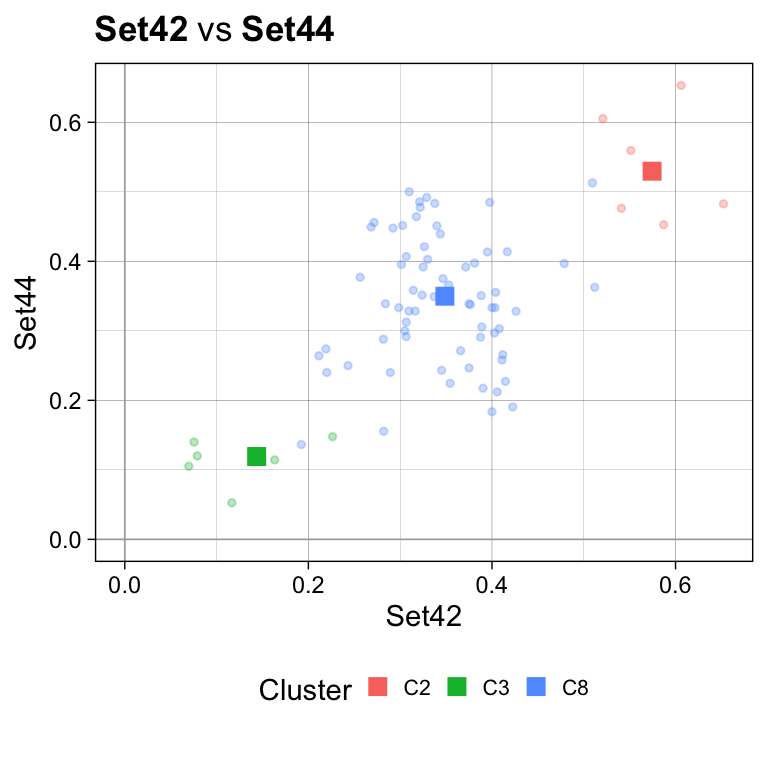
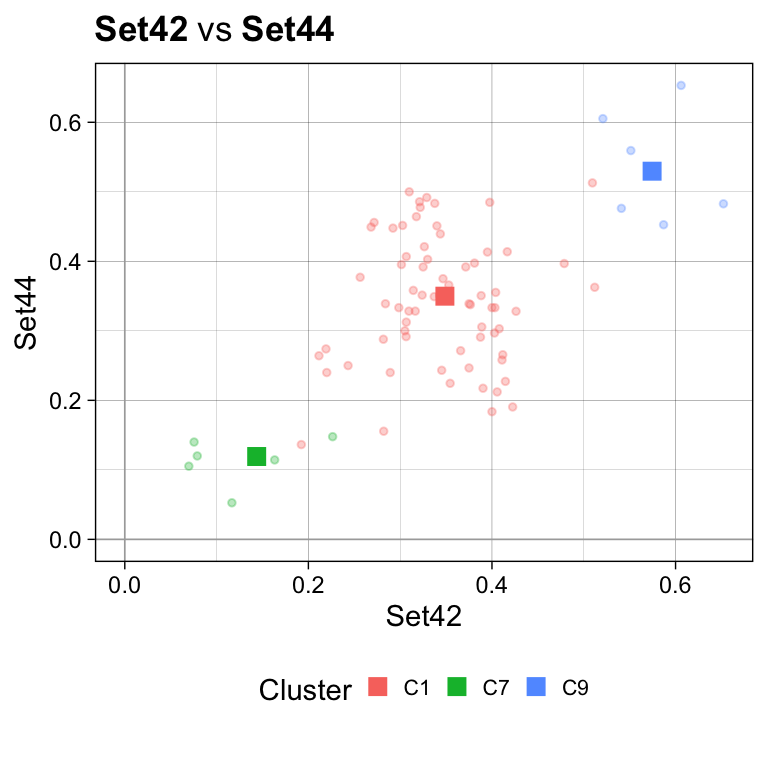
Subset VAF plot

diff --git a/docs/articles/Analysis.html b/docs/articles/Analysis.html
@@ -206,8 +206,8 @@
 <a class="sourceLine" id="cb2-44" data-line-number="44"><span class="co">#&gt; # A tibble: 2 x 2</span></a>
 <a class="sourceLine" id="cb2-45" data-line-number="45"><span class="co">#&gt;   time                operation                  </span></a>
 <a class="sourceLine" id="cb2-46" data-line-number="46"><span class="co">#&gt;   &lt;dttm&gt;              &lt;chr&gt;                      </span></a>
-<a class="sourceLine" id="cb2-47" data-line-number="47"><span class="co">#&gt; 1 2019-09-22 17:12:37 Initialization             </span></a>
-<a class="sourceLine" id="cb2-48" data-line-number="48"><span class="co">#&gt; 2 2019-09-22 17:12:40 Fit MOBSTER to Set42, Set44</span></a></code></pre></div>
+<a class="sourceLine" id="cb2-47" data-line-number="47"><span class="co">#&gt; 1 2019-09-23 00:43:19 Initialization             </span></a>
+<a class="sourceLine" id="cb2-48" data-line-number="48"><span class="co">#&gt; 2 2019-09-23 00:43:23 Fit MOBSTER to Set42, Set44</span></a></code></pre></div>
 <p>Consequently, the S3 plotting function can now be asked to plot 2D points coloured by MOBSTER cluster (the samples are analyzed independently therefore there are two labels per point).</p>
 <div class="sourceCode" id="cb3"><pre class="sourceCode r"><code class="sourceCode r"><a class="sourceLine" id="cb3-1" data-line-number="1"><span class="kw"><a href="https://www.rdocumentation.org/packages/graphics/topics/plot">plot</a></span>(x, <span class="dt">clusters =</span> <span class="st">'MOBSTER'</span>)</a>
 <a class="sourceLine" id="cb3-2" data-line-number="2"><span class="co">#&gt; Printing data augmented with MOBSTER clusters</span></a>
@@ -299,11 +299,11 @@
 <a class="sourceLine" id="cb6-60" data-line-number="60"><span class="co">#&gt; </span></a>
 <a class="sourceLine" id="cb6-61" data-line-number="61"><span class="co">#&gt;     Points N = 81 </span></a>
 <a class="sourceLine" id="cb6-62" data-line-number="62"><span class="co">#&gt; Dimensions W = 2 </span></a>
-<a class="sourceLine" id="cb6-63" data-line-number="63"><span class="co">#&gt;        Fit CONVERGED (34 steps; eps. 1e-10) with Variational </span></a>
+<a class="sourceLine" id="cb6-63" data-line-number="63"><span class="co">#&gt;        Fit CONVERGED (35 steps; eps. 1e-10) with Variational </span></a>
 <a class="sourceLine" id="cb6-64" data-line-number="64"><span class="co">#&gt; </span></a>
 <a class="sourceLine" id="cb6-65" data-line-number="65"><span class="co">#&gt; Binomial parameters (2 digits rounded) </span></a>
 <a class="sourceLine" id="cb6-66" data-line-number="66"><span class="co">#&gt;  # A tibble: 2 x 10</span></a>
-<a class="sourceLine" id="cb6-67" data-line-number="67"><span class="co">#&gt;      C8    C3    C2    C1    C4    C5    C6    C7    C9   C10</span></a>
+<a class="sourceLine" id="cb6-67" data-line-number="67"><span class="co">#&gt;      C1    C7    C9    C2    C3    C4    C5    C6    C8   C10</span></a>
 <a class="sourceLine" id="cb6-68" data-line-number="68"><span class="co">#&gt;   &lt;dbl&gt; &lt;dbl&gt; &lt;dbl&gt; &lt;dbl&gt; &lt;dbl&gt; &lt;dbl&gt; &lt;dbl&gt; &lt;dbl&gt; &lt;dbl&gt; &lt;dbl&gt;</span></a>
 <a class="sourceLine" id="cb6-69" data-line-number="69"><span class="co">#&gt; 1  0.35  0.14 0.570   0.5   0.5   0.5   0.5   0.5   0.5   0.5</span></a>
 <a class="sourceLine" id="cb6-70" data-line-number="70"><span class="co">#&gt; 2  0.35  0.12 0.53    0.5   0.5   0.5   0.5   0.5   0.5   0.5</span></a>
@@ -312,15 +312,15 @@
 <a class="sourceLine" id="cb6-73" data-line-number="73"><span class="co">#&gt; # A tibble: 10 x 2</span></a>
 <a class="sourceLine" id="cb6-74" data-line-number="74"><span class="co">#&gt;    entry        value</span></a>
 <a class="sourceLine" id="cb6-75" data-line-number="75"><span class="co">#&gt;    &lt;chr&gt;        &lt;dbl&gt;</span></a>
-<a class="sourceLine" id="cb6-76" data-line-number="76"><span class="co">#&gt;  1 C8    0.851       </span></a>
-<a class="sourceLine" id="cb6-77" data-line-number="77"><span class="co">#&gt;  2 C3    0.0771      </span></a>
-<a class="sourceLine" id="cb6-78" data-line-number="78"><span class="co">#&gt;  3 C2    0.0721      </span></a>
-<a class="sourceLine" id="cb6-79" data-line-number="79"><span class="co">#&gt;  4 C1    0.0000000123</span></a>
-<a class="sourceLine" id="cb6-80" data-line-number="80"><span class="co">#&gt;  5 C4    0.0000000123</span></a>
-<a class="sourceLine" id="cb6-81" data-line-number="81"><span class="co">#&gt;  6 C5    0.0000000123</span></a>
-<a class="sourceLine" id="cb6-82" data-line-number="82"><span class="co">#&gt;  7 C6    0.0000000123</span></a>
-<a class="sourceLine" id="cb6-83" data-line-number="83"><span class="co">#&gt;  8 C7    0.0000000123</span></a>
-<a class="sourceLine" id="cb6-84" data-line-number="84"><span class="co">#&gt;  9 C9    0.0000000123</span></a>
+<a class="sourceLine" id="cb6-76" data-line-number="76"><span class="co">#&gt;  1 C1    0.851       </span></a>
+<a class="sourceLine" id="cb6-77" data-line-number="77"><span class="co">#&gt;  2 C7    0.0771      </span></a>
+<a class="sourceLine" id="cb6-78" data-line-number="78"><span class="co">#&gt;  3 C9    0.0721      </span></a>
+<a class="sourceLine" id="cb6-79" data-line-number="79"><span class="co">#&gt;  4 C2    0.0000000123</span></a>
+<a class="sourceLine" id="cb6-80" data-line-number="80"><span class="co">#&gt;  5 C3    0.0000000123</span></a>
+<a class="sourceLine" id="cb6-81" data-line-number="81"><span class="co">#&gt;  6 C4    0.0000000123</span></a>
+<a class="sourceLine" id="cb6-82" data-line-number="82"><span class="co">#&gt;  7 C5    0.0000000123</span></a>
+<a class="sourceLine" id="cb6-83" data-line-number="83"><span class="co">#&gt;  8 C6    0.0000000123</span></a>
+<a class="sourceLine" id="cb6-84" data-line-number="84"><span class="co">#&gt;  9 C8    0.0000000123</span></a>
 <a class="sourceLine" id="cb6-85" data-line-number="85"><span class="co">#&gt; 10 C10   0.0000000123</span></a>
 <a class="sourceLine" id="cb6-86" data-line-number="86"><span class="co">#&gt; </span></a>
 <a class="sourceLine" id="cb6-87" data-line-number="87"><span class="co">#&gt; </span></a>
@@ -369,11 +369,11 @@
 <a class="sourceLine" id="cb6-130" data-line-number="130"><span class="co">#&gt; </span></a>
 <a class="sourceLine" id="cb6-131" data-line-number="131"><span class="co">#&gt;     Points N = 81 </span></a>
 <a class="sourceLine" id="cb6-132" data-line-number="132"><span class="co">#&gt; Dimensions W = 2 </span></a>
-<a class="sourceLine" id="cb6-133" data-line-number="133"><span class="co">#&gt;        Fit CONVERGED (34 steps; eps. 1e-10) with Variational </span></a>
+<a class="sourceLine" id="cb6-133" data-line-number="133"><span class="co">#&gt;        Fit CONVERGED (35 steps; eps. 1e-10) with Variational </span></a>
 <a class="sourceLine" id="cb6-134" data-line-number="134"><span class="co">#&gt; </span></a>
 <a class="sourceLine" id="cb6-135" data-line-number="135"><span class="co">#&gt; Binomial parameters (2 digits rounded) </span></a>
 <a class="sourceLine" id="cb6-136" data-line-number="136"><span class="co">#&gt;  # A tibble: 2 x 10</span></a>
-<a class="sourceLine" id="cb6-137" data-line-number="137"><span class="co">#&gt;      C8    C3    C2    C1    C4    C5    C6    C7    C9   C10</span></a>
+<a class="sourceLine" id="cb6-137" data-line-number="137"><span class="co">#&gt;      C1    C7    C9    C2    C3    C4    C5    C6    C8   C10</span></a>
 <a class="sourceLine" id="cb6-138" data-line-number="138"><span class="co">#&gt;   &lt;dbl&gt; &lt;dbl&gt; &lt;dbl&gt; &lt;dbl&gt; &lt;dbl&gt; &lt;dbl&gt; &lt;dbl&gt; &lt;dbl&gt; &lt;dbl&gt; &lt;dbl&gt;</span></a>
 <a class="sourceLine" id="cb6-139" data-line-number="139"><span class="co">#&gt; 1  0.35  0.14 0.570   0.5   0.5   0.5   0.5   0.5   0.5   0.5</span></a>
 <a class="sourceLine" id="cb6-140" data-line-number="140"><span class="co">#&gt; 2  0.35  0.12 0.53    0.5   0.5   0.5   0.5   0.5   0.5   0.5</span></a>
@@ -382,15 +382,15 @@
 <a class="sourceLine" id="cb6-143" data-line-number="143"><span class="co">#&gt; # A tibble: 10 x 2</span></a>
 <a class="sourceLine" id="cb6-144" data-line-number="144"><span class="co">#&gt;    entry        value</span></a>
 <a class="sourceLine" id="cb6-145" data-line-number="145"><span class="co">#&gt;    &lt;chr&gt;        &lt;dbl&gt;</span></a>
-<a class="sourceLine" id="cb6-146" data-line-number="146"><span class="co">#&gt;  1 C8    0.851       </span></a>
-<a class="sourceLine" id="cb6-147" data-line-number="147"><span class="co">#&gt;  2 C3    0.0771      </span></a>
-<a class="sourceLine" id="cb6-148" data-line-number="148"><span class="co">#&gt;  3 C2    0.0721      </span></a>
-<a class="sourceLine" id="cb6-149" data-line-number="149"><span class="co">#&gt;  4 C1    0.0000000123</span></a>
-<a class="sourceLine" id="cb6-150" data-line-number="150"><span class="co">#&gt;  5 C4    0.0000000123</span></a>
-<a class="sourceLine" id="cb6-151" data-line-number="151"><span class="co">#&gt;  6 C5    0.0000000123</span></a>
-<a class="sourceLine" id="cb6-152" data-line-number="152"><span class="co">#&gt;  7 C6    0.0000000123</span></a>
-<a class="sourceLine" id="cb6-153" data-line-number="153"><span class="co">#&gt;  8 C7    0.0000000123</span></a>
-<a class="sourceLine" id="cb6-154" data-line-number="154"><span class="co">#&gt;  9 C9    0.0000000123</span></a>
+<a class="sourceLine" id="cb6-146" data-line-number="146"><span class="co">#&gt;  1 C1    0.851       </span></a>
+<a class="sourceLine" id="cb6-147" data-line-number="147"><span class="co">#&gt;  2 C7    0.0771      </span></a>
+<a class="sourceLine" id="cb6-148" data-line-number="148"><span class="co">#&gt;  3 C9    0.0721      </span></a>
+<a class="sourceLine" id="cb6-149" data-line-number="149"><span class="co">#&gt;  4 C2    0.0000000123</span></a>
+<a class="sourceLine" id="cb6-150" data-line-number="150"><span class="co">#&gt;  5 C3    0.0000000123</span></a>
+<a class="sourceLine" id="cb6-151" data-line-number="151"><span class="co">#&gt;  6 C4    0.0000000123</span></a>
+<a class="sourceLine" id="cb6-152" data-line-number="152"><span class="co">#&gt;  7 C5    0.0000000123</span></a>
+<a class="sourceLine" id="cb6-153" data-line-number="153"><span class="co">#&gt;  8 C6    0.0000000123</span></a>
+<a class="sourceLine" id="cb6-154" data-line-number="154"><span class="co">#&gt;  9 C8    0.0000000123</span></a>
 <a class="sourceLine" id="cb6-155" data-line-number="155"><span class="co">#&gt; 10 C10   0.0000000123</span></a>
 <a class="sourceLine" id="cb6-156" data-line-number="156"><span class="co">#&gt; </span></a>
 <a class="sourceLine" id="cb6-157" data-line-number="157"><span class="co">#&gt; =-=-=-=-=-=-=-=-=-=-</span></a>
@@ -399,9 +399,9 @@
 <a class="sourceLine" id="cb6-160" data-line-number="160"><span class="co">#&gt; # A tibble: 3 x 2</span></a>
 <a class="sourceLine" id="cb6-161" data-line-number="161"><span class="co">#&gt;   time                operation                  </span></a>
 <a class="sourceLine" id="cb6-162" data-line-number="162"><span class="co">#&gt;   &lt;dttm&gt;              &lt;chr&gt;                      </span></a>
-<a class="sourceLine" id="cb6-163" data-line-number="163"><span class="co">#&gt; 1 2019-09-22 17:12:37 Initialization             </span></a>
-<a class="sourceLine" id="cb6-164" data-line-number="164"><span class="co">#&gt; 2 2019-09-22 17:12:40 Fit MOBSTER to Set42, Set44</span></a>
-<a class="sourceLine" id="cb6-165" data-line-number="165"><span class="co">#&gt; 3 2019-09-22 17:12:54 Fit VIBER to Set42, Set44</span></a>
+<a class="sourceLine" id="cb6-163" data-line-number="163"><span class="co">#&gt; 1 2019-09-23 00:43:19 Initialization             </span></a>
+<a class="sourceLine" id="cb6-164" data-line-number="164"><span class="co">#&gt; 2 2019-09-23 00:43:23 Fit MOBSTER to Set42, Set44</span></a>
+<a class="sourceLine" id="cb6-165" data-line-number="165"><span class="co">#&gt; 3 2019-09-23 00:43:37 Fit VIBER to Set42, Set44</span></a>
 <a class="sourceLine" id="cb6-166" data-line-number="166"><span class="kw"><a href="https://www.rdocumentation.org/packages/graphics/topics/plot">plot</a></span>(x, <span class="dt">clusters =</span> <span class="st">'VIBER'</span>)</a>
 <a class="sourceLine" id="cb6-167" data-line-number="167"><span class="co">#&gt; Printing data augmented with VIBER clusters - using plotting functions from the VIBER package.</span></a>
 <a class="sourceLine" id="cb6-168" data-line-number="168"><span class="co">#&gt; [[1]]</span></a></code></pre></div>

diff --git a/docs/articles/mvMOBSTER.html b/docs/articles/mvMOBSTER.html
@@ -344,7 +344,7 @@
 <a class="sourceLine" id="cb9-15" data-line-number="15"><span class="co">#&gt; # A tibble: 1 x 2</span></a>
 <a class="sourceLine" id="cb9-16" data-line-number="16"><span class="co">#&gt;   time                operation     </span></a>
 <a class="sourceLine" id="cb9-17" data-line-number="17"><span class="co">#&gt;   &lt;dttm&gt;              &lt;chr&gt;         </span></a>
-<a class="sourceLine" id="cb9-18" data-line-number="18"><span class="co">#&gt; 1 2019-09-22 17:13:19 Initialization</span></a>
+<a class="sourceLine" id="cb9-18" data-line-number="18"><span class="co">#&gt; 1 2019-09-23 00:44:00 Initialization</span></a>
 <a class="sourceLine" id="cb9-19" data-line-number="19"></a>
 <a class="sourceLine" id="cb9-20" data-line-number="20"><span class="co"># Summary of the measurements</span></a>
 <a class="sourceLine" id="cb9-21" data-line-number="21"><span class="kw"><a href="https://www.rdocumentation.org/packages/base/topics/summary">summary</a></span>(x)</a>

diff --git a/docs/articles/Filtering.html b/docs/articles/Filtering.html
@@ -194,7 +194,7 @@
 <a class="sourceLine" id="cb2-19" data-line-number="19"><span class="co">#&gt; </span></a>
 <a class="sourceLine" id="cb2-20" data-line-number="20"><span class="co">#&gt;   full_join(dt, an, by = 'id')</span></a>
 <a class="sourceLine" id="cb2-21" data-line-number="21"><span class="co">#&gt; }</span></a>
-<a class="sourceLine" id="cb2-22" data-line-number="22"><span class="co">#&gt; &lt;bytecode: 0x7fc7c149f0c0&gt;</span></a>
+<a class="sourceLine" id="cb2-22" data-line-number="22"><span class="co">#&gt; &lt;bytecode: 0x7fcd986f50c0&gt;</span></a>
 <a class="sourceLine" id="cb2-23" data-line-number="23"><span class="co">#&gt; &lt;environment: namespace:mvmobster&gt;</span></a>
 <a class="sourceLine" id="cb2-24" data-line-number="24"></a>
 <a class="sourceLine" id="cb2-25" data-line-number="25"><span class="co"># All data table, with annotations as well</span></a>
